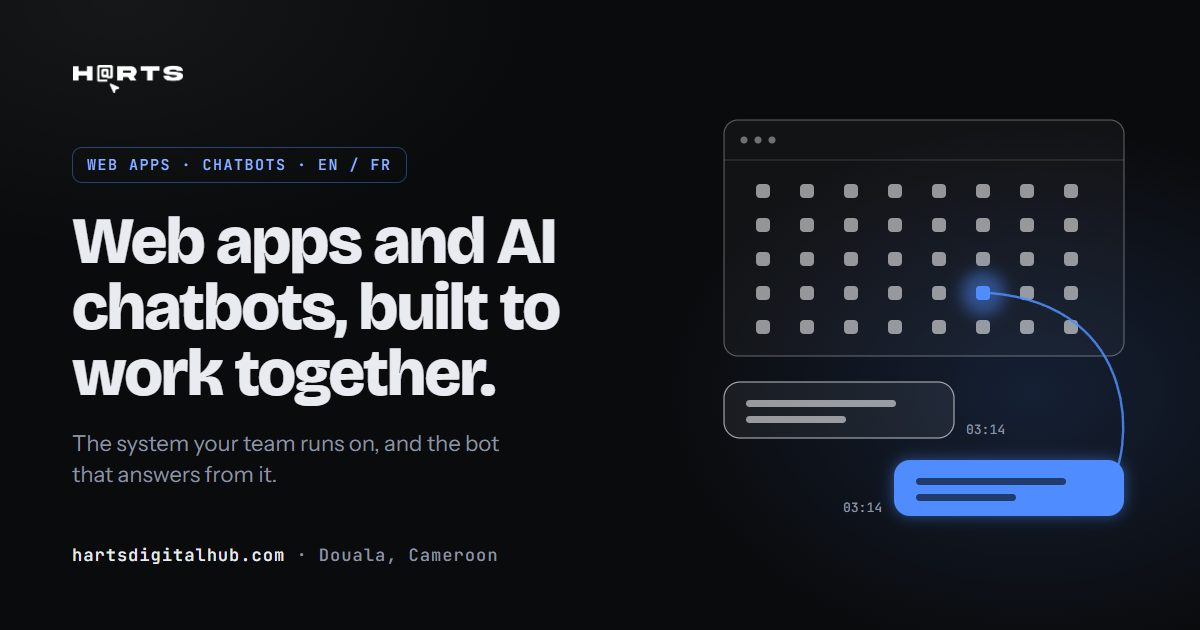
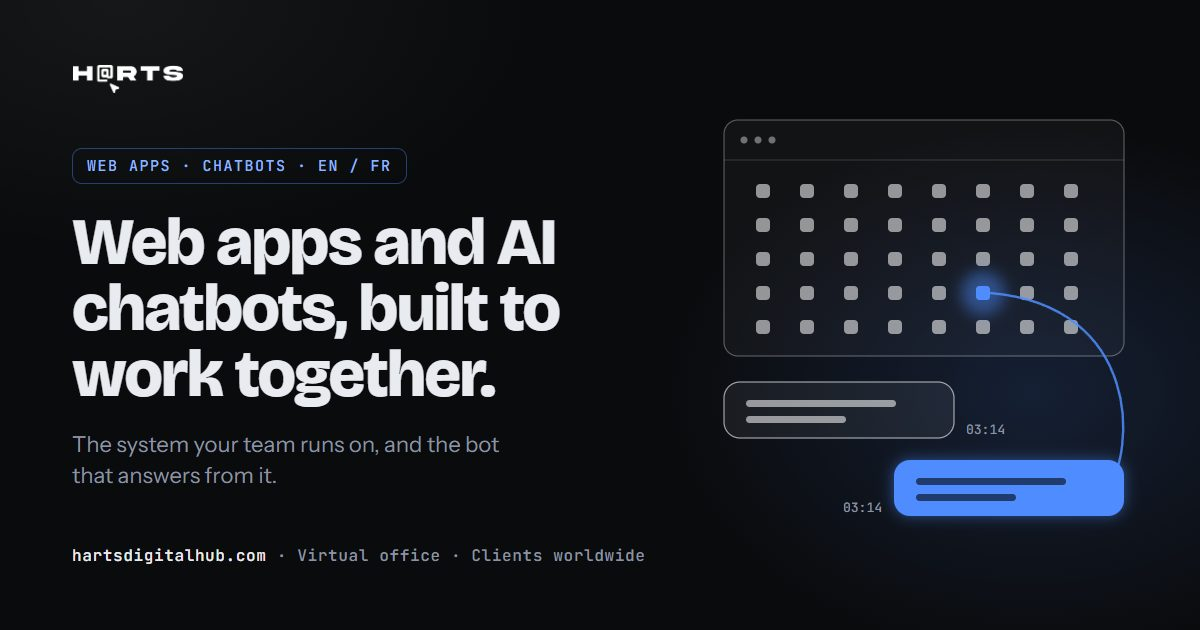
Present H@rts as a virtual office with clients worldwide
- Homepage "Who we are": bilingual virtual office, building for clients
  around the world; tags now Clients worldwide / EN-FR / Virtual office.
- Hero closing line, meta and social descriptions, and the hidden h1
  say worldwide instead of "across Cameroon and beyond"; Organization
  areaServed is Worldwide.
- Footer on every hub page: virtual office, clients worldwide, based
  in Douala, meetings by appointment. Address details stay as they are.
- Chatbot (EN and FR): updated the visit/office, cities and "who are
  you" answers; the last still described a Cameroon-only agency doing
  mobile apps and logos. Knowledge file says clients in any country.
- Sharing image re-rendered with the new footer line (og-image ?v=3).

diff --git a/app.js b/app.js
@@ -375,9 +375,9 @@ const KNOWLEDGE = {
     timeline: 'Simple websites and branding projects (logos, flyers) are typically ready in 5–10 days. Full websites or apps usually take 2–4 weeks depending on complexity and how quickly you provide content.',
     payment: 'We accept MTN MoMo (*126# → Send to 622 341 343), Orange Money, and bank transfer. Managed packages are billed yearly — the yearly fee is due once at the start of your service year (and you can split it into 2-3 interest-free MoMo installments). For MoMo we will give you exact instructions.',
     momo: 'To pay with MTN MoMo:\n1. Dial *126#\n2. Select Transfer Money → Send to MTN Cameroon\n3. Enter 622 341 343\n4. Enter the exact amount for your project or package\n5. Confirm and keep your reference number.\nAfter payment, send us the reference on WhatsApp and we start or activate your services.',
-    cities: 'We work with businesses across Cameroon — Yaoundé, Douala, Buea, and many other cities. Everything is handled remotely via WhatsApp, calls, and shared documents.',
+    cities: 'We work with clients worldwide. We are a virtual office based in Douala, Cameroon, so everything happens remotely: WhatsApp, calls, video calls and shared documents, with meetings by appointment.',
     freeAudit: 'We can help you figure out the right services for your business right now. Just tell us a bit about what you do and what you need (more customers, online sales, new branding, etc.) and we\'ll recommend the best options.',
-    who: 'Harts Digital Hub is a Cameroon-based digital agency that builds websites, mobile apps, and other digital products (logos, flyers, branding, social media assets) for SMEs. We focus on high-quality, affordable work with flexible payment plans.',
+    who: 'Harts Digital Hub (H@rts) is a bilingual virtual office, based in Douala and working with clients worldwide. We build web apps and AI chatbots that work together: the system your team runs on, and the bot that answers your customers from it.',
     contact: 'The fastest way to reach our team is WhatsApp: +237 622 341 343. We can prepare a detailed message with everything we\'ve discussed so they have full context.',
     // Pricing flexibility & value (updated for new services)
     pricing_value: 'Our packages and custom projects are full-service. We don\'t just deliver files and disappear — we handle design, development, revisions, launch, and support. Many clients see real results quickly (more visibility, new customers, professional brand presence).',
@@ -395,9 +395,9 @@ const KNOWLEDGE = {
     timeline: 'Les sites simples et les projets de branding (logos, flyers) sont généralement prêts en 5 à 10 jours. Les sites complets ou les applications prennent généralement 2 à 4 semaines selon la complexité et la rapidité avec laquelle vous fournissez le contenu.',
     payment: 'Nous acceptons MTN MoMo (*126# → envoi vers 622 341 343), Orange Money et virement bancaire. Les forfaits gérés sont facturés à l\'année — le forfait annuel est dû une fois, au début de votre année de service (et vous pouvez l\'étaler en 2 ou 3 versements sans intérêts par MoMo). Pour MoMo nous vous donnerons les instructions précises.',
     momo: 'Pour payer par MTN MoMo :\n1. Composez *126#\n2. Choisissez Transfert d\'argent → Envoi vers MTN Cameroun\n3. Entrez 622 341 343\n4. Entrez le montant exact de votre projet ou forfait\n5. Confirmez et gardez votre référence.\nAprès paiement, envoyez-nous la référence sur WhatsApp et nous démarrons ou activons vos services.',
-    cities: 'Nous travaillons avec des entreprises dans tout le Cameroun — Yaoundé, Douala, Buea et de nombreuses autres villes. Tout se fait à distance via WhatsApp, appels et documents partagés.',
+    cities: 'Nous travaillons avec des clients partout dans le monde. Nous sommes un bureau virtuel basé à Douala, au Cameroun : tout se fait à distance, par WhatsApp, appels, visio et documents partagés, avec des rendez-vous sur réservation.',
     freeAudit: 'Nous pouvons vous aider à déterminer les bons services pour votre entreprise dès maintenant. Dites-nous simplement ce que vous faites et ce dont vous avez besoin (plus de clients, ventes en ligne, nouveau branding, etc.) et nous vous recommanderons les meilleures options.',
-    who: 'Harts Digital Hub est une agence digitale basée au Cameroun qui crée des sites web, des applications mobiles et d\'autres produits numériques (logos, flyers, branding, visuels pour réseaux sociaux) pour les PME. Nous nous concentrons sur un travail de qualité à prix abordable avec des plans de paiement flexibles.',
+    who: 'Harts Digital Hub (H@rts) est un bureau virtuel bilingue, basé à Douala et au service de clients partout dans le monde. Nous créons des applications web et des chatbots IA qui fonctionnent ensemble : le système sur lequel tourne votre équipe, et le bot qui répond à vos clients à partir de ce système.',
     contact: 'Le moyen le plus rapide de joindre notre équipe est WhatsApp : +237 622 341 343. Nous pouvons préparer un message détaillé avec tout ce dont nous avons discuté pour qu\'ils aient le contexte complet.',
     // Pricing flexibility & value (updated for new services)
     pricing_value: 'Nos forfaits et projets sur mesure sont des services complets. Nous ne livrons pas simplement des fichiers et ne disparaissons pas — nous gérons la conception, le développement, les révisions, le lancement et le support. Beaucoup de clients voient de vrais résultats rapidement (plus de visibilité, de nouveaux clients, une présence de marque professionnelle).',
@@ -1216,8 +1216,8 @@ function getBotResponse(rawText, lang = currentLang) {
   if (/\b(office|visit|come in|physical|en personne|bureau|adresse|address|can i visit|venir vous voir|où êtes-vous)\b/i.test(text)) {
     return {
       text: lang === 'fr'
-        ? 'Nous sommes une équipe entièrement virtuelle basée à Douala : il n\'y a pas de bureau à visiter. Tout se fait à distance — WhatsApp, appels, visio, documents partagés. Les rendez-vous se font uniquement sur réservation : écrivez-nous sur WhatsApp ou par e-mail pour en fixer un.'
-        : 'We\'re a fully virtual team based in Douala, so there\'s no office to visit. Everything happens remotely — WhatsApp, calls, video calls, shared documents. Meetings are by appointment only: message us on WhatsApp or email to book one.'
+        ? 'Nous sommes un bureau virtuel basé à Douala, au service de clients partout dans le monde : il n\'y a pas de bureau à visiter. Tout se fait à distance — WhatsApp, appels, visio, documents partagés. Les rendez-vous se font uniquement sur réservation : écrivez-nous sur WhatsApp ou par e-mail pour en fixer un.'
+        : 'We\'re a virtual office based in Douala, working with clients worldwide, so there\'s no office to visit. Everything happens remotely — WhatsApp, calls, video calls, shared documents. Meetings are by appointment only: message us on WhatsApp or email to book one.'
     };
   }
 

diff --git a/index.html b/index.html
@@ -4,23 +4,23 @@
 <meta charset="utf-8">
 <meta name="viewport" content="width=device-width, initial-scale=1">
 <title>H@rts · Web apps and AI chatbots, built to work together</title>
-<meta name="description" content="H@rts builds web apps and AI chatbots: the system your team runs on, and the bot that answers your customers from it. A bilingual team in Douala, Cameroon.">
+<meta name="description" content="H@rts builds web apps and AI chatbots: the system your team runs on, and the bot that answers your customers from it. A bilingual virtual office, building for clients worldwide.">
 <meta name="theme-color" content="#0A0B0D">
 <meta name="color-scheme" content="dark">
 
 <meta property="og:type" content="website">
 <meta property="og:site_name" content="H@rts">
 <meta property="og:title" content="H@rts · Web apps and AI chatbots, built to work together">
-<meta property="og:description" content="The web app your team runs on, and the chatbot that answers your customers from it. Built in Douala, in English and French.">
+<meta property="og:description" content="The web app your team runs on, and the chatbot that answers your customers from it. A virtual office, building in English and French for clients worldwide.">
 <meta property="og:url" content="https://hartsdigitalhub.com/">
-<meta property="og:image" content="https://hartsdigitalhub.com/assets/og-image.jpg?v=2">
+<meta property="og:image" content="https://hartsdigitalhub.com/assets/og-image.jpg?v=3">
 <meta property="og:image:width" content="1200">
 <meta property="og:image:height" content="630">
 <meta property="og:image:alt" content="Web apps and AI chatbots, built to work together: a web app finds a record and a chatbot sends the reply.">
 <meta name="twitter:card" content="summary_large_image">
 <meta name="twitter:title" content="H@rts · Web apps and AI chatbots, built to work together">
 <meta name="twitter:description" content="The web app your team runs on, and the chatbot that answers your customers from it.">
-<meta name="twitter:image" content="https://hartsdigitalhub.com/assets/og-image.jpg?v=2">
+<meta name="twitter:image" content="https://hartsdigitalhub.com/assets/og-image.jpg?v=3">
 <link rel="canonical" href="https://hartsdigitalhub.com/">
 
 <link rel="icon" type="image/svg+xml" href="/favicon.svg?v=2">
@@ -66,7 +66,7 @@
     "telephone": "+237622341343",
     "email": "support@hartsdigitalhub.com",
     "contactType": "sales",
-    "areaServed": "CM",
+    "areaServed": "Worldwide",
     "availableLanguage": ["en", "fr"]
   }]
 }
@@ -116,7 +116,7 @@
 
 <main id="main" tabindex="-1">
 
-<h1 class="sr">H@rts builds web apps and AI chatbots that work together: the system your team runs on, and the bot that answers your customers from it. Douala, Cameroon.</h1>
+<h1 class="sr">H@rts builds web apps and AI chatbots that work together: the system your team runs on, and the bot that answers your customers from it. A virtual office based in Douala, Cameroon, working with clients worldwide.</h1>
 
 <!-- ============================================================ -->
 <!-- HERO: the scroll-driven story                                 -->
@@ -162,7 +162,7 @@
       <div class="band band-settle" data-a="0.82" data-b="1" data-entrance="rise" data-ramp="0.05">
         <p class="band-kicker mono">Web apps · Chatbots · EN / FR</p>
         <h2 class="band-title" data-split="word">Web apps and AI chatbots, built to work together.</h2>
-        <p class="band-sub">For businesses and networks across Cameroon and beyond, in English and French.</p>
+        <p class="band-sub">For businesses and networks worldwide, in English and French.</p>
         <div class="band-cta">
           <a class="btn" href="#quote">Get a build quote</a>
           <a class="btn btn-ghost" href="#work">See our work</a>
@@ -649,12 +649,12 @@
 <section class="sec sec-who reveal" id="who" aria-labelledby="who-h">
   <span class="node" aria-hidden="true"></span>
   <p class="kicker mono">08 · Who we are</p>
-  <h2 class="sec-title big" id="who-h">A bilingual team in Douala. Web apps and chatbots are what we do.</h2>
-  <p class="lede">We build for businesses and networks across Cameroon and beyond, in English and in French, and we stay on the phone after launch. We work virtually and meet by appointment.</p>
+  <h2 class="sec-title big" id="who-h">A bilingual virtual office. Web apps and chatbots are what we do.</h2>
+  <p class="lede">We build for businesses and networks around the world, in English and in French, and we stay on the line after launch. There is no office to visit: we work remotely from Douala, Cameroon, and meet by appointment.</p>
   <ul class="facts mono">
-    <li>Douala, Cameroon</li>
+    <li>Clients worldwide</li>
     <li>EN / FR</li>
-    <li>Virtual · by appointment</li>
+    <li>Virtual office · by appointment</li>
   </ul>
 </section>
 

diff --git a/og-image.html b/og-image.html
@@ -29,7 +29,7 @@
   }
   .headline { font-family:'Bricolage Grotesque', sans-serif; font-weight:800; font-size:66px; line-height:1.0; letter-spacing:-.025em; }
   .sub { margin-top:22px; font-size:22px; color:#8C94A1; max-width:30ch; line-height:1.4; }
-  .foot { font-family:'JetBrains Mono', monospace; font-size:17px; letter-spacing:.06em; color:#8C94A1; }
+  .foot { font-family:'JetBrains Mono', monospace; font-size:16px; letter-spacing:.04em; color:#8C94A1; white-space:nowrap; }
   .foot b { color:#E8EBF0; font-weight:500; }
   .scene { position:absolute; right:56px; top:96px; width:440px; height:440px; }
   .frame { fill:rgba(255,255,255,.03); stroke:rgba(255,255,255,.3); stroke-width:1.2; }
@@ -54,7 +54,7 @@
         <div class="headline">Web apps and AI chatbots, built to work together.</div>
         <p class="sub">The system your team runs on, and the bot that answers from it.</p>
       </div>
-      <div class="foot"><b>hartsdigitalhub.com</b> · Douala, Cameroon</div>
+      <div class="foot"><b>hartsdigitalhub.com</b> · Virtual office · Clients worldwide</div>
     </div>
 
     <svg class="scene" viewBox="0 0 440 440" aria-hidden="true">

diff --git a/chat.html b/chat.html
@@ -14,12 +14,12 @@
 <meta property="og:title" content="H@rts assistant">
 <meta property="og:description" content="Ask about AI chatbots, custom software and pricing. English or French. A person on WhatsApp whenever you want one.">
 <meta property="og:url" content="https://app.hartsdigitalhub.com/">
-<meta property="og:image" content="https://hartsdigitalhub.com/assets/og-image.jpg?v=2">
+<meta property="og:image" content="https://hartsdigitalhub.com/assets/og-image.jpg?v=3">
 <meta property="og:image:width" content="1200">
 <meta property="og:image:height" content="630">
 <meta name="twitter:card" content="summary_large_image">
 <meta name="twitter:title" content="H@rts assistant">
-<meta name="twitter:image" content="https://hartsdigitalhub.com/assets/og-image.jpg?v=2">
+<meta name="twitter:image" content="https://hartsdigitalhub.com/assets/og-image.jpg?v=3">
 <link rel="canonical" href="https://app.hartsdigitalhub.com/">
 
 <link rel="icon" type="image/svg+xml" href="/favicon.svg?v=2">

diff --git a/site-chrome.js b/site-chrome.js
@@ -78,7 +78,7 @@
         '<a href="mailto:' + EMAIL + '">' + EMAIL + '</a>' +
         '<a href="tel:' + PHONE_E164 + '">' + PHONE + '</a>' +
         '<a href="https://wa.me/' + PHONE_E164.replace('+', '') + '" target="_blank" rel="noopener">WhatsApp us</a>' +
-        '<span>Douala, Cameroon &middot; Fully virtual &middot; Meetings by appointment only</span>' +
+        '<span>Virtual office &middot; Clients worldwide &middot; Based in Douala, Cameroon &middot; Meetings by appointment only</span>' +
       '</address>' +
       '<div>&copy; ' + years + ' H@rts &middot; All rights reserved.</div>';
   }

diff --git a/api/knowledge/company.md b/api/knowledge/company.md
@@ -29,8 +29,8 @@
 
 ## Who we are
 
-Harts Digital Hub, trading as H@rts. A web app and AI chatbot team based in Douala, Cameroon, working with clients across Cameroon and
-beyond. Founded 2024. Bilingual: English and French, both first-class.
+Harts Digital Hub, trading as H@rts. A web app and AI chatbot team working as a virtual office, based in Douala,
+Cameroon, and building for clients worldwide. Founded 2024. Bilingual: English and French, both first-class.
 
 The assistant introduces itself as "H@rts".
 
@@ -122,7 +122,8 @@ Four steps, all remote over WhatsApp:
 
 ## Policies
 
-- **How we work:** We are a fully virtual team based in Douala. There is no
+- **How we work:** We are a virtual office based in Douala, working with clients
+  worldwide (any country, not only Cameroon). There is no
   office or studio to visit, and no walk-in or fixed opening hours. All work
   happens remotely (WhatsApp, calls, video calls, shared documents). Meetings
   are by appointment only: a visitor who wants one should book it via WhatsApp
